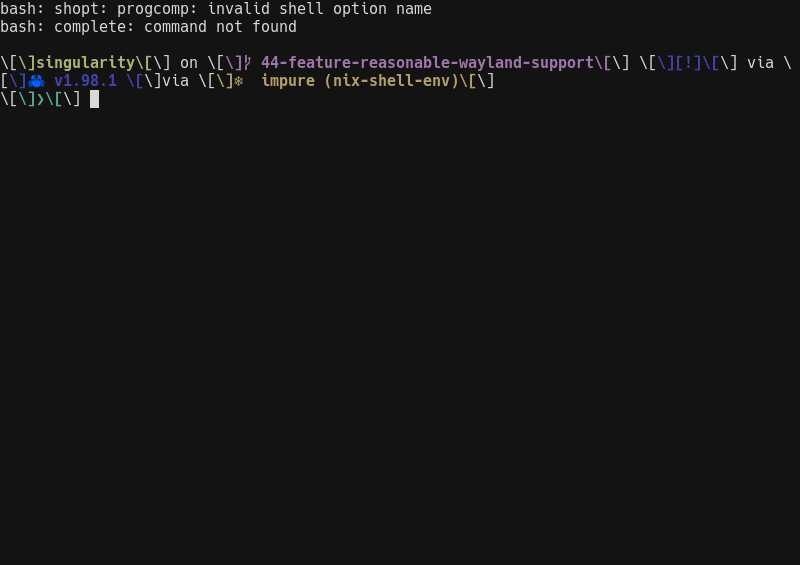
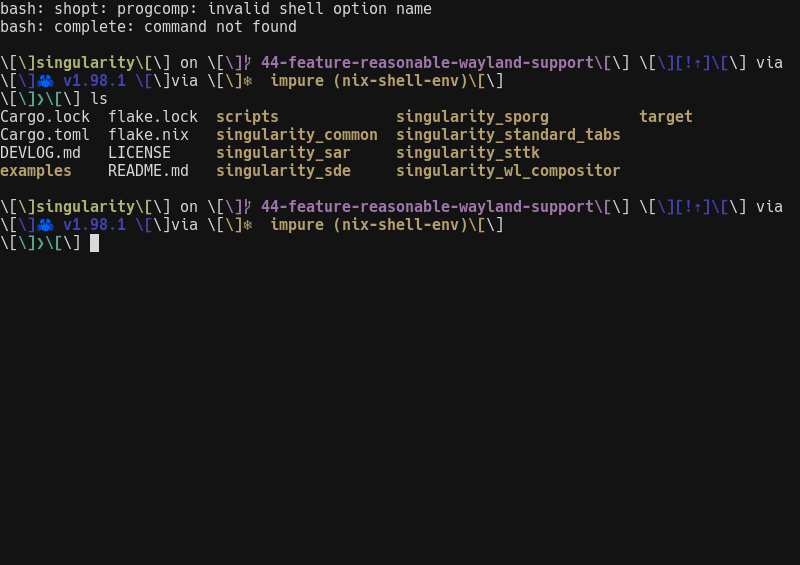
(claude) flush clients after keypress

diff --git a/singularity_sar/src/smithay/mod.rs b/singularity_sar/src/smithay/mod.rs
@@ -198,6 +198,12 @@ impl SmithayState {
                     );
 
                 dbg!("Sent keypress with keycode", keycode);
+
+                // Events queued above only land in wayland-server's internal
+                // per-client buffers; this source isn't triggered by client
+                // socket activity like the display dispatch source is, so we
+                // have to flush explicitly or the bytes never hit the wire.
+                state.smithay_state.display_handle.flush_clients().unwrap();
             })
             .unwrap();
 

diff --git a/DEVLOG.md b/DEVLOG.md
@@ -10007,3 +10007,12 @@ It sets the keyboard focus to the place, then does a press then unpress.
 ...huh, it is pretty much not working,
 but in my testing (consisting of mashing a bunch of buttons),
 suddenly, all the stuff I typed in was processed then nothing happened again.
+
+2026-09-22 11:28AM
+
+Just used claude to fix panic on keypress (suddenly appeared on new setup)
+and to actually show changes with the wl.
+But, it's really slow.
+
+I might refactor the whole codebase with Claude to render like a normal Smithay client.
+The custom renderer was fun, but I don't know if it will scale very well.
